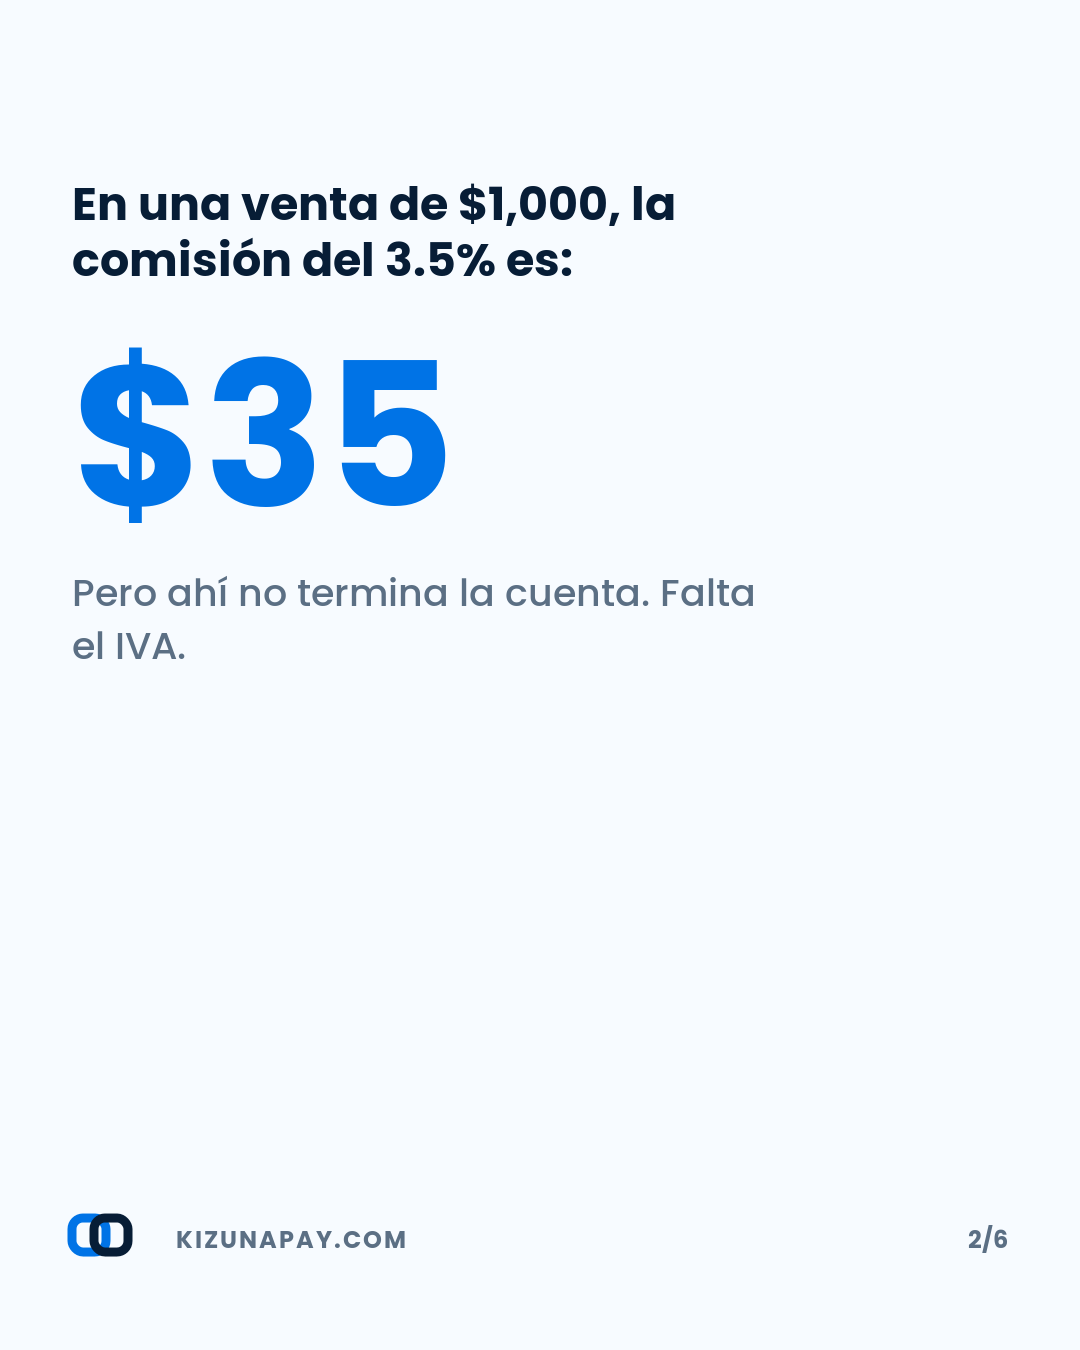
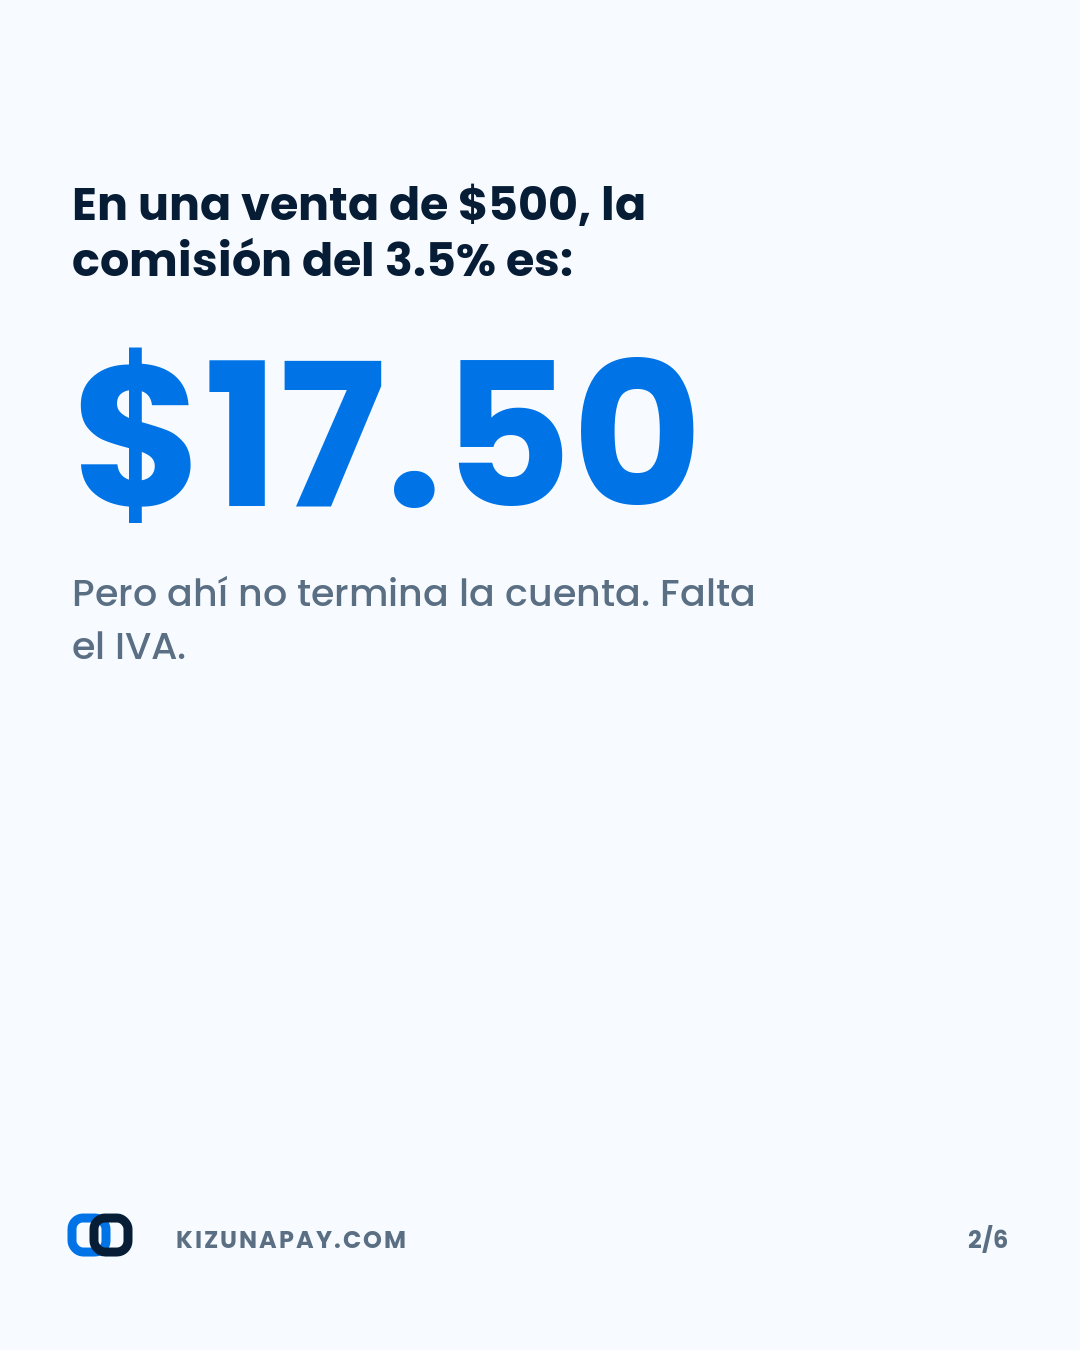
Carrusel de comision: ejemplo de $500 y giro a inversion en vez de perdida

Changed region(s): [[0.1833, 0.2489, 0.6417, 0.3733], [0.5194, 0.1244, 0.6417, 0.1867], [0.4583, 0.1244, 0.4889, 0.1867]]

diff --git a/scripts/generar_carruseles.py b/scripts/generar_carruseles.py
@@ -172,21 +172,26 @@ def frase(texto_a, resaltado, texto_b, indice, total):
 # ---------------------------------------------------------------- carruseles
 
 def carrusel_comision():
+    """Venta de $500 · 3.5% = $17.50 · IVA 16% de la comisión = $2.80 · llegan $479.70
+       Mensual: $10,000 en ventas con tarjeta -> $350 de comisión ($406 con IVA)."""
     n = 6
     return [
         portada('Educar', 'Qué significa de verdad 3.5% + IVA.',
-                'Te lo desgloso con una venta de $1,000.', total=n),
-        dato('En una venta de $1,000, la comisión del 3.5% es:', '$35',
+                'Te lo desgloso con una venta de $500.', total=n),
+        dato('En una venta de $500, la comisión del 3.5% es:', '$17.50',
              'Pero ahí no termina la cuenta. Falta el IVA.', 2, n),
-        dato('El IVA se cobra sobre la comisión, no sobre la venta:', '$5.60',
-             '16% de $35. Es el error más común al calcular.', 3, n, color=AMAR),
-        dato('Lo que realmente te llega a la cuenta:', '$959.40',
-             'De cada $1,000 que cobras con tarjeta.', 4, n, color=VERDE),
-        dato('Si vendes 100 veces al mes, te quedas sin:', '$4,060',
-             'Al año son $48,720. Por eso medio punto de diferencia sí importa.', 5, n),
-        cierre('¿Estás pagando de más?',
-               'Comparé 34 opciones en México. Las tasas van de 1.39% a 6.33% más IVA. '
-               'Te digo cuál le conviene a tu negocio, gratis.',
+        dato('El IVA se cobra sobre la comisión, no sobre la venta:', '$2.80',
+             '16% de $17.50. Es el error más común al calcular.', 3, n, color=AMAR),
+        dato('Lo que realmente te llega a la cuenta:', '$479.70',
+             'De cada $500 que cobras con tarjeta.', 4, n, color=VERDE),
+        dato('Si vendes $10,000 al mes con tarjeta, pagas:', '$350',
+             'De comisión al mes ($406 con IVA). Y varía mucho: comparé 34 opciones '
+             'en México y van de 1.39% a 6.33% más IVA.', 5, n),
+        cierre('No es un gasto. Es lo que inviertes para vender más.',
+               'Los negocios que empiezan a aceptar tarjeta suelen vender hasta un 30% más, '
+               'porque dejan de perder al cliente que llega sin efectivo. Para ganar más hay '
+               'que invertir en ciertos costos — la clave es pagar el correcto. Te digo cuál '
+               'te conviene, gratis.',
                'Escríbeme por WhatsApp', 6, n),
     ]
 

diff --git a/docs/kizuna-pies-de-foto.md b/docs/kizuna-pies-de-foto.md
@@ -12,19 +12,20 @@
 
 > Cuando te dicen "3.5% más IVA", ¿sabes cuánto es de verdad?
 >
-> Te lo desgloso con una venta de $1,000:
-> · Comisión: $35
-> · IVA sobre la comisión: $5.60
-> · Te llega: $959.40
+> Te lo desgloso con una venta de $500:
+> · Comisión: $17.50
+> · IVA sobre la comisión: $2.80
+> · Te llegan: $479.70
 >
-> Parece poco. Pero si vendes 100 veces al mes son $4,060 que no ves. Al año, $48,720.
+> Si vendes $10,000 al mes con tarjeta, son $350 de comisión ($406 con IVA).
 >
-> Por eso comparar solo la tasa no sirve: hay que sumar renta, contrato y tiempo de depósito. Comparé 34 opciones en México y las tasas van de 1.39% a 6.33% más IVA.
+> Y aquí está lo que casi nadie te dice: eso no es un gasto, es lo que inviertes para vender más. Los negocios que empiezan a aceptar tarjeta suelen vender hasta un 30% más, porque dejan de perder al cliente que llega sin efectivo.
+>
+> Para ganar más hay que invertir en ciertos costos. La clave es pagar el correcto: comparé 34 opciones en México y las tasas van de 1.39% a 6.33% más IVA. La diferencia entre una y otra es real.
 >
 > ¿Quieres saber cuál le conviene a tu negocio? Escríbeme, la asesoría no tiene costo.
 >
-> 📍 Oaxaca, para todo México
-> 🔗 kizunapay.com
+> Oaxaca, para todo México · kizunapay.com
 
 **Hashtags · set A**
 `#Oaxaca #NegociosOaxaca #ComercioLocalOaxaca #CobrarConTarjeta #TerminalPuntoDeVenta #EmprendedoresMexico #PymesMexico #TiendaDeBarrio #FinanzasParaNegocios`
